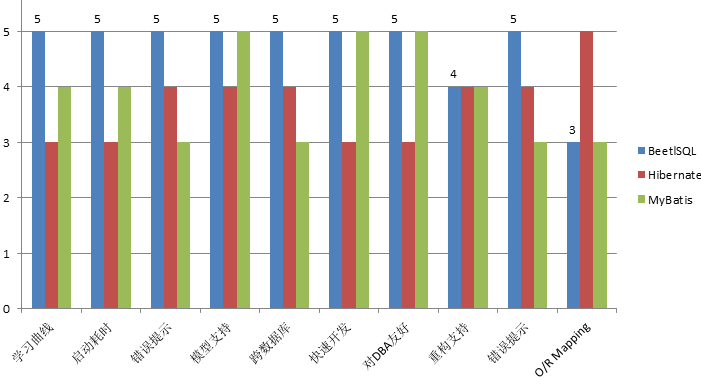
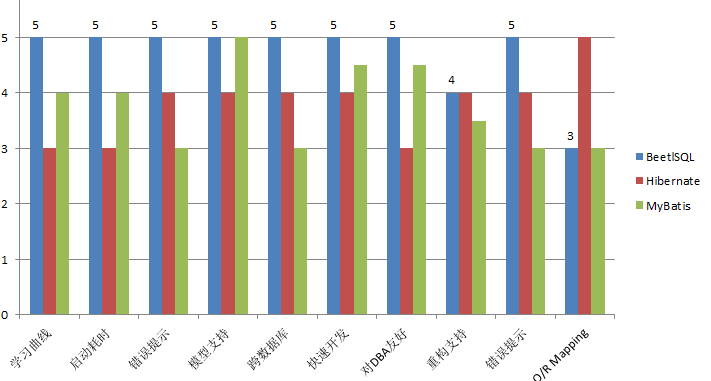
refine doc

diff --git a/README.md b/README.md
@@ -130,7 +130,11 @@ user.selectRole
 
 * 与hiberante，myabtis比较
 
-<img src="http://ibeetl.com/guide/beetlsqlpk.jpg" width = "100%" height = "100%"  />
+![pk.png](pk.png)
+
+
+
+说明博客：https://my.oschina.net/xiandafu/blog/617542
 
 
 # 开发人员帅照
